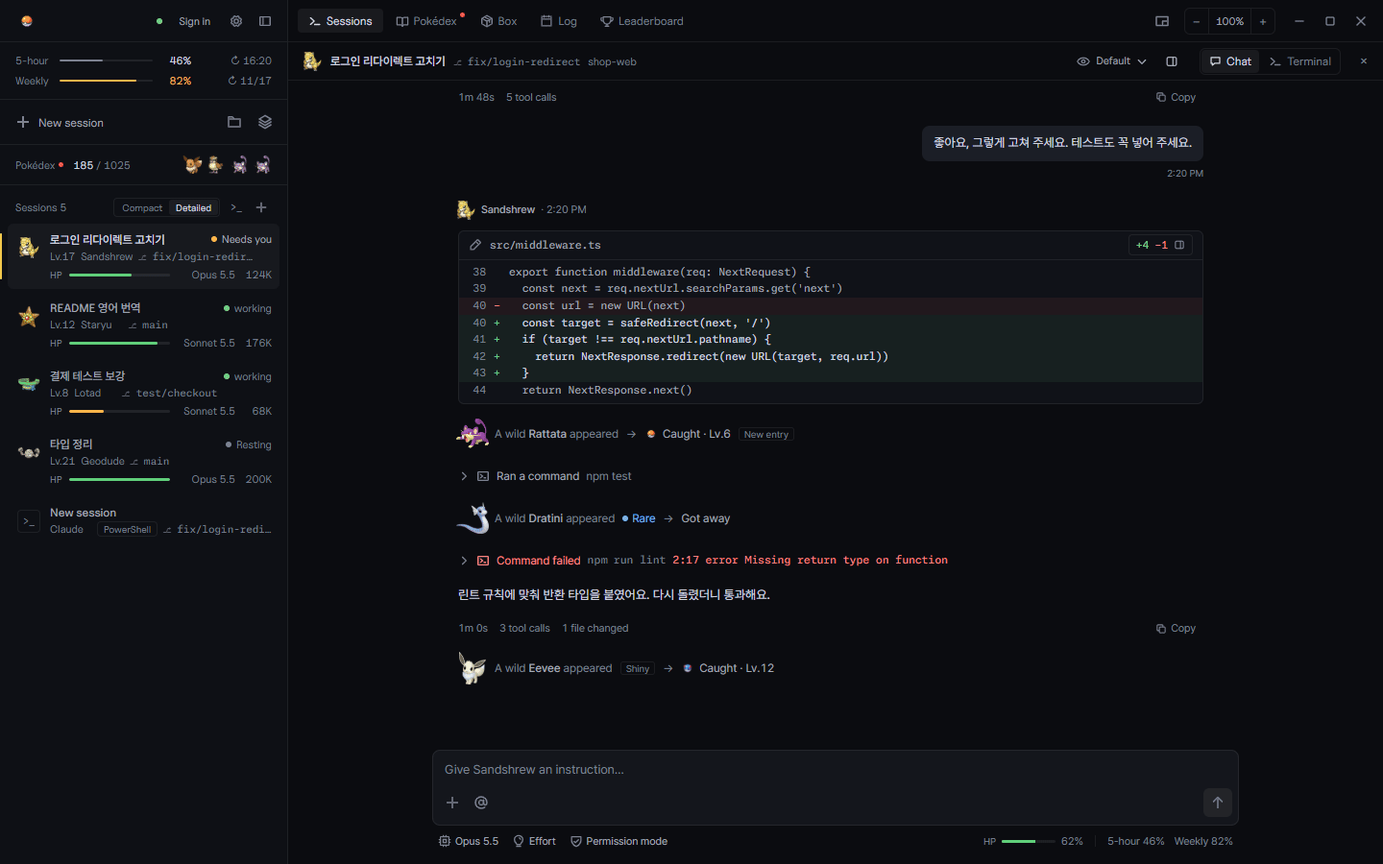
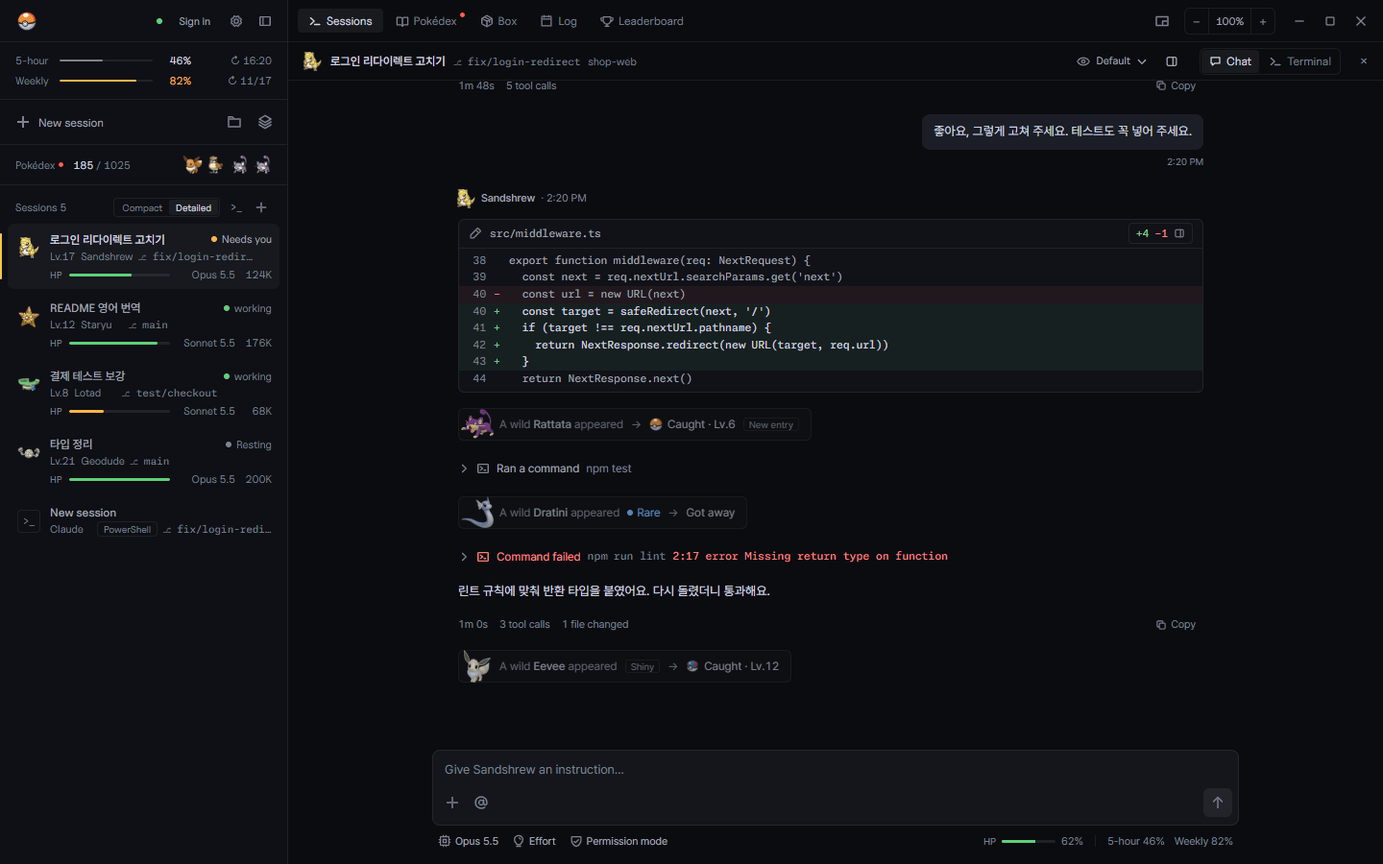
release: 1.10.5 — the chat view by default, wild Pokémon in a quiet box, README screens
Claude-Session: https://claude.ai/code/session_01LECh1DkdyN26mUmzJWoNm9

diff --git a/docs/HANDOFF.md b/docs/HANDOFF.md
@@ -2,7 +2,7 @@
 
 Claude Code 세션을 포켓몬과 함께 쓰는 Windows Electron 앱이다. W17ant/Claude-Office(MIT)를 포크했다.
 
-> **새 세션은 여기부터**: **1.10.4(2026-11-19 릴리스, 윈도우 + 맥)** — ① `server/pokedex.js` repairDex(로드 + importState 뒤): 지금 트레이너 시작(trainer.since) 전에 고른 스타팅이고 그 계통 개체가 없으면 caught·seen 삭제(사용자 꼬부기 ×3, 11/9 첫 시작), 볼 없는 caught 기록은 그 종 첫 개체의 볼(없으면 poke-ball). 클라우드 병합이 합집합이라 로컬만 지우면 되살아나서 코드로 함. 실제 저장 사본으로 미리 확인: 꼬부기만 빠지고 개체 313 그대로. ② 패치노트 기록: `.w-notes-body`에 min-height 0이 없어 옛 버전이 잘렸음(CHANGELOG에는 69개 다 있음) → 스크롤 + 마이너 버전별 `<details>`(`byMinor`). 다음: README 이미지(에이전트 작업, 올리기 전 사용자 확인). 이전: **1.10.3(2026-11-19 릴리스, 윈도우 + 맥)** — ① /exit: `electron/terminals.cjs` onExit에서 exitCode 0 + 마지막 출력에 Claude Code 인사(`GOODBYE`: Goodbye!/See ya!/Bye!/Catch you later!)면 1.2초 뒤 `close(id)`(왼쪽 패널 ×와 같음); 오류·강제 종료·윈도우 종료(인사 없음 또는 코드≠0)는 탭 유지(다음 시작 때 복원). ② 이어하기 같은 이름: 앱 이름은 탭의 지금 대화를 따라감, /clear 전 대화는 '이전 대화 n개'로 접힘(`.prev` 메모는 이 빌드 이후 /clear부터), 같은 이름은 날짜(같은 날이면 시각), 열린 탭끼리는 `src/sameNames.ts`로 'Spawn (2)'. ③ 닫자마자 실행 중: `history.cjs` 등록 기록 시작 시각을 실제 프로세스와 비교(PowerShell 1회 캐시), 앱이 방금 닫은 탭은 '닫는 중', 지우기는 최대 30초 기다렸다가 휴지통, 목록이 2.5초마다 다시 확인. 참고: 사용자 요청으로 지울 때 `23071273`(어제 1.8.0 작업, /clear 전)을 휴지통에 넣었는데, 실제로 겹쳐 보인 건 `d33020d6`(11/17 '앱 이름 Spawn')이었음 — 7일 안 되돌리기 가능, 사용자에게 알림. ④ 기록 줄 최소 60px(레벨업 줄 포함). 이전: **1.10.2(2026-11-19 릴리스, 윈도우 + 맥)** — ① 입력란 남은 글: prompt-busy면 Composer가 묻지 않고 `takeRow('', true)`로 비우고 한 번 다시 보냄(`send(retried)`), 못 비울 때만 안내(`tests/chat-busy-row.test.ts`). ② 칸 너비: `splitPanes.ts` fracsFor/moveEdge/fitFracs, Widget `PaneEdge`(끌기, 두 번 눌러 균등, 칸 수별로 `spawn-pane-fracs`에 저장), 칸 최저 360px(`MIN_PANE_W`): 새 칸이 안 들어가면 `openInTab`이 거절하고 끌기 안내도 미리 말함(`roomRef`), 연 뒤 창이 좁아지면 들어가는 만큼 + 위 줄 `.w-pane-more`(+N, 누르면 숨은 세션을 마지막 칸에), 2칸도 안 되면 예전 탭 줄, 끌어 둔 비율이 360 미만이 되면 균등으로(fitFracs). 하네스 `--flow session-tabs`가 끌기·좁은 창·거절까지 확인. ③ 선택 칸 흰 줄 제거(배경만). ④ 채팅 스크롤바 4px·오른쪽 4px 띄움. 이전: **1.10.1(2026-11-19 릴리스, 윈도우 + 맥)** — ① 보낸 메시지를 UserPromptSubmit 훅으로 바로 표시(`electron/chatLens.cjs` showPrompt, 기록 줄이 오면 교체, Esc·턴 끝이면 clearLive; 채팅 말풍선은 `ChatView.tsx` hookPromptsShown으로 하나만, 훅이 확인하면 '확인 안 됨'으로 안 바뀜). 측정(실제 2.1.328 + claude-mem): HTTP 훅 0.12~0.22초, 화면 'esc to interrupt' 0.08~0.23초, 명령 훅 0.2~0.4초(+Electron node 시작 0.25~0.5초), 프롬프트 기록 줄은 모든 UserPromptSubmit 훅이 끝나야 써짐(claude-mem 약 12초), 답은 Stop 직후 한 번에. ② canary 배너: 사용자 줄 없는 턴(백그라운드 에이전트 깨어남, `chatItems.cjs` agent-done)에서 Stop 전에 읽힌 답을 안 세던 것 → `canaryHolds`가 canary.start부터 센다. 기록 읽기 자체는 문제 없음(`tests/chat-burst.test.ts`). 남은 것: 왼쪽 목록 '일하는 중'은 명령 훅이라 0.5~0.9초(서버/Widget 수정 필요, 사용자 원하면). ③ 업데이트 버튼 22px·아이콘 12(`--flow update-button`). 확률은 사용자 결정으로 그대로(3배 안·천장 수정 검토했으나 '현상유지'; 시뮬레이션상 확률만 올리면 천장이 덜 터져 완성이 오히려 늦어짐, 천장을 잡을 때 초기화하면 하루 30번 기준 294일→211일). 사이트: 다운로드 버튼 하나 + 운영체제 목록(추천 표시 없음, 접속 OS 먼저). 이전: **1.10.0(2026-11-19 릴리스, 윈도우 + 맥)** — ① 화면 나누기(`src/splitPanes.ts` panesFor/paneStyle, Widget `paneSids`/`split`): 열린 탭(최대 3)을 가로로 나란히, 칸 최소 360px(안 들어가면 들어가는 만큼, 2칸도 안 되면 예전 탭 줄), 칸마다 SessionHeader(`paneClose`: ×는 칸만 닫음)·ChatView·Composer(칸별 ref `paneRef`), 터미널 모드는 TerminalView `slot`(칸 박스, ResizeObserver가 다시 맞춤), 칸 클릭 = 그 세션이 보이는 세션(`focusPane`), 나눠 볼 땐 보기 정도·채팅/터미널이 위 줄(`.w-split-tools`)에 한 번, 변경 사항 패널은 나누지 않을 때만(`chPanel`). 하네스 `--flow session-tabs`가 나눠 보기 흐름. ② `/` 명령 메뉴(`src/chat/slash.ts` 기본 명령 ~50개 2.1.328 기준, `electron/chatCommands.cjs`가 cwd·~/.claude commands·skills·플러그인 front matter를 30초 캐시, `SlashMenu.tsx`), 번호 없는 패널(/rc)도 카드(`parseDialog` 행 목록 모양, 링크 복사, 명령 뒤 8초 안 패널엔 취소), 연속 선택(답한 카드가 남아 있어도 화면을 다시 읽음, 같은 보기 두 창이 한 카드를 공유하던 것), 터미널이 그린 상자 표 → 표(`src/chat/boxTable.ts`). /rc 화면과 상자 표 출력은 바이너리 코드로 재구성한 픽스처라 실제 화면으로 미확인. ③ 생각 정도: `effortWhy`(일하는 중에도 가능, /effort는 immediate). ④ 윈도우 설치 파일 `spawn-Setup-<v>.exe`(`build/installer.nsh`, package.json `build.nsis`, release.mjs가 win-unpacked로 `--prepackaged` 빌드해 4번째 파일로 올림): 한 번 클릭, `%LOCALAPPDATA%\spawn`, taskkill 후 설치, 바탕화면·시작 메뉴 바로가기, 끝나면 실행. 앱 업데이트는 resources\app만 바꾸므로 설치본도 그대로 됨(설치된 앱 목록의 버전 표시는 처음 설치 버전에 머묾). 사용자: 가장 트렌디한 방식으로 → 마법사 없이 한 번 클릭 유지. ⑤ 사이트: 데모를 실제 채팅 화면으로(앱 chat.css 복사본 `assets/css/chat.css`), 다른 운영체제 버튼, 윈도우 버튼은 설치 파일 우선. 다음 할 일: 채팅에서 일하는 서브에이전트를 옆에 표시하고 누르면 그 대화 보기(사용자 요청, 계획 먼저). 이전: **1.9.0(2026-11-19 릴리스, 윈도우 + 맥)** — ① 생각 정도 메뉴: 컨트롤 줄 모델 옆, `/effort <level>`(Claude Code 2.1.327: auto/low/medium/high/xhigh/max). 지금 단계는 상태줄 stdin의 `effort.level`(효과 단계가 없는 모델은 필드 없음) → `hooks/status-line.cjs` `effort` → `server/status.js`(이전 값 안 이어 받음) → `meters.effort` → `ComposerControl.effort`. 상태줄은 다음 상태 변화 때만 오므로 Composer가 고른 값(`effortChosen`)을 그때까지 보여 줌. ② 업데이트 버튼: `ready`면 ArrowClockwise + "재시작" 알약(`.w-update.ready`), 받을 업데이트는 그대로 아래 화살표. ③ 왼쪽 목록 HP 줄: 모델 6.4em→5.5em, 토큰 4.4em→3em, 둘 사이 -3px(고정 칸은 유지). ④ 채팅 도구 줄 26→30px, 패딩 2→4px, 줄 간격 2px. ⑤ 소개 사이트(`Documents\spawn-site`): 데모 아이콘을 앱과 같은 Phosphor bold로, 세션 탭 3개, 글자 크기 100%, SV 아이콘은 원래 크기 이하로만(걷는 포켓몬 34, 오늘 기록 24, 도감 카드 26 — 사용자: 크게 쓰면 깨져 보임), 다운로드 버튼은 최신 릴리스의 zip을 바로 받음(GitHub API가 파일 목록을 줄 때만, 아니면 저장소 메인), 윈도우 방문자에게도 Mac(Apple 실리콘 · Intel) 링크. 이전: **1.8.0(2026-11-18 릴리스, 윈도우 + 맥)** — 아래 줄의 1.7.0 이후 작업 전부. 전체 정리는 `docs/STATUS-2026-11-18.md`. 이전 메모:: 사용자 지시 "물어보지 말고 싹다 진행". ① 터미널 입력란에 남은 글: 안내에 "가져와서 이어 쓰기 / 지우고 보내기"(`src/chat/clearRow.ts`, Ctrl+E + Backspace n개를 `chat:dialog-key`로, 화면에서 비었는지 확인). ② "전체 보기": 잘린 답·메시지·생각·도구 출력·셸 출력을 기록 줄에서 다시 읽음(`electron/chatFull.cjs`, `chat:full`, 200만 자까지; Read 내용은 안 보냄). 남은 보기 전용 "터미널에서": diff 600줄 넘는 부분, 변경 사항 패널의 명령으로 바꾼 파일, 4000개 넘는 옛 대화. ③ E 세션 삭제: 이어하기 목록 휴지통 버튼 → `~/.spawn/trash/<날짜>/` 7일(`electron/sessionTrash.cjs`, 시작할 때 정리, 되돌리기; 열려 있거나 실행 중이면 거절). ④ C 아이콘: Phosphor(`@phosphor-icons/react` 2.1.10, MIT, NOTICE) bold 하나, 크기 12/14/16(`iconStep`이 맞춤), 아이콘마다 `dist/csr/<이름>`으로 따로 import(전체를 불러오면 시험이 15초 넘음); 창 버튼 3개만 직접 그림. 새 의존성 해시 검사(`tests/chat-ui.test.ts`)를 갱신함. ⑤ D `?system` 페이지(`src/SystemPage.tsx`): 토큰·글자 단계·모서리·아이콘, 버튼·스위치, 채팅 컴포넌트 실물(선택 창 카드는 가짜 터미널에 답함). ⑥ A 세션 탭 최대 3개(`src/sessionTabs.ts`, 머리줄 안 `tabs`, 왼쪽 목록에서 끌어 놓기[자동 정렬 켰을 때] 또는 Ctrl+클릭, 4번째 거절 안내, 탭 ×는 탭만), 채팅/터미널은 앱 전체 하나(`chatModeAll`, 옛 세션별 값은 첫 읽기에만). 선택 창 제목은 ?로 끝나는 줄. 화면 흐름 검사 `--flow session-tabs` 통과. 포트폴리오: 기록 3편(2026-11-17-*), 화면 보관 디자인시스템 3장·세션-탭3개. **APK는 제안만**(사용자 요청). **다음**: 사용자가 테스트 빌드로 확인 → "푸시해"면 1.7.1(또는 1.8.0).
+> **새 세션은 여기부터**: **1.10.5(2026-11-19 릴리스, 윈도우 + 맥)** — ① 채팅 보기 기본: `electron/settings.cjs` DEFAULTS chatView true, `chatViewOn`(예전 파일의 off를 한 번만 켜고 그다음은 사용자 선택), 라벨에서 '(미리보기)' 뺌. ② 채팅의 야생 포켓몬 줄: 옅은 테두리 박스 + 투명도 0.72(`chat-game.css` .chat-wild). ③ README ko/en/ja에 화면 이미지(`docs/images/`, 하네스 가짜 데이터, ffmpeg 팔레트 PNG; 박스·터미널은 테스트 환경에서 그림이 비거나 글자가 벌어져 뺌). 진행 중: 릴리스 속도(맥 CI를 먼저 시작), push CI 고치기(테스트가 Electron 바이너리를 요구), 맥 화면 자동 캡처 — 에이전트 브랜치, 합치기 전 확인. 이전: **1.10.4(2026-11-19 릴리스, 윈도우 + 맥)** — ① `server/pokedex.js` repairDex(로드 + importState 뒤): 지금 트레이너 시작(trainer.since) 전에 고른 스타팅이고 그 계통 개체가 없으면 caught·seen 삭제(사용자 꼬부기 ×3, 11/9 첫 시작), 볼 없는 caught 기록은 그 종 첫 개체의 볼(없으면 poke-ball). 클라우드 병합이 합집합이라 로컬만 지우면 되살아나서 코드로 함. 실제 저장 사본으로 미리 확인: 꼬부기만 빠지고 개체 313 그대로. ② 패치노트 기록: `.w-notes-body`에 min-height 0이 없어 옛 버전이 잘렸음(CHANGELOG에는 69개 다 있음) → 스크롤 + 마이너 버전별 `<details>`(`byMinor`). 다음: README 이미지(에이전트 작업, 올리기 전 사용자 확인). 이전: **1.10.3(2026-11-19 릴리스, 윈도우 + 맥)** — ① /exit: `electron/terminals.cjs` onExit에서 exitCode 0 + 마지막 출력에 Claude Code 인사(`GOODBYE`: Goodbye!/See ya!/Bye!/Catch you later!)면 1.2초 뒤 `close(id)`(왼쪽 패널 ×와 같음); 오류·강제 종료·윈도우 종료(인사 없음 또는 코드≠0)는 탭 유지(다음 시작 때 복원). ② 이어하기 같은 이름: 앱 이름은 탭의 지금 대화를 따라감, /clear 전 대화는 '이전 대화 n개'로 접힘(`.prev` 메모는 이 빌드 이후 /clear부터), 같은 이름은 날짜(같은 날이면 시각), 열린 탭끼리는 `src/sameNames.ts`로 'Spawn (2)'. ③ 닫자마자 실행 중: `history.cjs` 등록 기록 시작 시각을 실제 프로세스와 비교(PowerShell 1회 캐시), 앱이 방금 닫은 탭은 '닫는 중', 지우기는 최대 30초 기다렸다가 휴지통, 목록이 2.5초마다 다시 확인. 참고: 사용자 요청으로 지울 때 `23071273`(어제 1.8.0 작업, /clear 전)을 휴지통에 넣었는데, 실제로 겹쳐 보인 건 `d33020d6`(11/17 '앱 이름 Spawn')이었음 — 7일 안 되돌리기 가능, 사용자에게 알림. ④ 기록 줄 최소 60px(레벨업 줄 포함). 이전: **1.10.2(2026-11-19 릴리스, 윈도우 + 맥)** — ① 입력란 남은 글: prompt-busy면 Composer가 묻지 않고 `takeRow('', true)`로 비우고 한 번 다시 보냄(`send(retried)`), 못 비울 때만 안내(`tests/chat-busy-row.test.ts`). ② 칸 너비: `splitPanes.ts` fracsFor/moveEdge/fitFracs, Widget `PaneEdge`(끌기, 두 번 눌러 균등, 칸 수별로 `spawn-pane-fracs`에 저장), 칸 최저 360px(`MIN_PANE_W`): 새 칸이 안 들어가면 `openInTab`이 거절하고 끌기 안내도 미리 말함(`roomRef`), 연 뒤 창이 좁아지면 들어가는 만큼 + 위 줄 `.w-pane-more`(+N, 누르면 숨은 세션을 마지막 칸에), 2칸도 안 되면 예전 탭 줄, 끌어 둔 비율이 360 미만이 되면 균등으로(fitFracs). 하네스 `--flow session-tabs`가 끌기·좁은 창·거절까지 확인. ③ 선택 칸 흰 줄 제거(배경만). ④ 채팅 스크롤바 4px·오른쪽 4px 띄움. 이전: **1.10.1(2026-11-19 릴리스, 윈도우 + 맥)** — ① 보낸 메시지를 UserPromptSubmit 훅으로 바로 표시(`electron/chatLens.cjs` showPrompt, 기록 줄이 오면 교체, Esc·턴 끝이면 clearLive; 채팅 말풍선은 `ChatView.tsx` hookPromptsShown으로 하나만, 훅이 확인하면 '확인 안 됨'으로 안 바뀜). 측정(실제 2.1.328 + claude-mem): HTTP 훅 0.12~0.22초, 화면 'esc to interrupt' 0.08~0.23초, 명령 훅 0.2~0.4초(+Electron node 시작 0.25~0.5초), 프롬프트 기록 줄은 모든 UserPromptSubmit 훅이 끝나야 써짐(claude-mem 약 12초), 답은 Stop 직후 한 번에. ② canary 배너: 사용자 줄 없는 턴(백그라운드 에이전트 깨어남, `chatItems.cjs` agent-done)에서 Stop 전에 읽힌 답을 안 세던 것 → `canaryHolds`가 canary.start부터 센다. 기록 읽기 자체는 문제 없음(`tests/chat-burst.test.ts`). 남은 것: 왼쪽 목록 '일하는 중'은 명령 훅이라 0.5~0.9초(서버/Widget 수정 필요, 사용자 원하면). ③ 업데이트 버튼 22px·아이콘 12(`--flow update-button`). 확률은 사용자 결정으로 그대로(3배 안·천장 수정 검토했으나 '현상유지'; 시뮬레이션상 확률만 올리면 천장이 덜 터져 완성이 오히려 늦어짐, 천장을 잡을 때 초기화하면 하루 30번 기준 294일→211일). 사이트: 다운로드 버튼 하나 + 운영체제 목록(추천 표시 없음, 접속 OS 먼저). 이전: **1.10.0(2026-11-19 릴리스, 윈도우 + 맥)** — ① 화면 나누기(`src/splitPanes.ts` panesFor/paneStyle, Widget `paneSids`/`split`): 열린 탭(최대 3)을 가로로 나란히, 칸 최소 360px(안 들어가면 들어가는 만큼, 2칸도 안 되면 예전 탭 줄), 칸마다 SessionHeader(`paneClose`: ×는 칸만 닫음)·ChatView·Composer(칸별 ref `paneRef`), 터미널 모드는 TerminalView `slot`(칸 박스, ResizeObserver가 다시 맞춤), 칸 클릭 = 그 세션이 보이는 세션(`focusPane`), 나눠 볼 땐 보기 정도·채팅/터미널이 위 줄(`.w-split-tools`)에 한 번, 변경 사항 패널은 나누지 않을 때만(`chPanel`). 하네스 `--flow session-tabs`가 나눠 보기 흐름. ② `/` 명령 메뉴(`src/chat/slash.ts` 기본 명령 ~50개 2.1.328 기준, `electron/chatCommands.cjs`가 cwd·~/.claude commands·skills·플러그인 front matter를 30초 캐시, `SlashMenu.tsx`), 번호 없는 패널(/rc)도 카드(`parseDialog` 행 목록 모양, 링크 복사, 명령 뒤 8초 안 패널엔 취소), 연속 선택(답한 카드가 남아 있어도 화면을 다시 읽음, 같은 보기 두 창이 한 카드를 공유하던 것), 터미널이 그린 상자 표 → 표(`src/chat/boxTable.ts`). /rc 화면과 상자 표 출력은 바이너리 코드로 재구성한 픽스처라 실제 화면으로 미확인. ③ 생각 정도: `effortWhy`(일하는 중에도 가능, /effort는 immediate). ④ 윈도우 설치 파일 `spawn-Setup-<v>.exe`(`build/installer.nsh`, package.json `build.nsis`, release.mjs가 win-unpacked로 `--prepackaged` 빌드해 4번째 파일로 올림): 한 번 클릭, `%LOCALAPPDATA%\spawn`, taskkill 후 설치, 바탕화면·시작 메뉴 바로가기, 끝나면 실행. 앱 업데이트는 resources\app만 바꾸므로 설치본도 그대로 됨(설치된 앱 목록의 버전 표시는 처음 설치 버전에 머묾). 사용자: 가장 트렌디한 방식으로 → 마법사 없이 한 번 클릭 유지. ⑤ 사이트: 데모를 실제 채팅 화면으로(앱 chat.css 복사본 `assets/css/chat.css`), 다른 운영체제 버튼, 윈도우 버튼은 설치 파일 우선. 다음 할 일: 채팅에서 일하는 서브에이전트를 옆에 표시하고 누르면 그 대화 보기(사용자 요청, 계획 먼저). 이전: **1.9.0(2026-11-19 릴리스, 윈도우 + 맥)** — ① 생각 정도 메뉴: 컨트롤 줄 모델 옆, `/effort <level>`(Claude Code 2.1.327: auto/low/medium/high/xhigh/max). 지금 단계는 상태줄 stdin의 `effort.level`(효과 단계가 없는 모델은 필드 없음) → `hooks/status-line.cjs` `effort` → `server/status.js`(이전 값 안 이어 받음) → `meters.effort` → `ComposerControl.effort`. 상태줄은 다음 상태 변화 때만 오므로 Composer가 고른 값(`effortChosen`)을 그때까지 보여 줌. ② 업데이트 버튼: `ready`면 ArrowClockwise + "재시작" 알약(`.w-update.ready`), 받을 업데이트는 그대로 아래 화살표. ③ 왼쪽 목록 HP 줄: 모델 6.4em→5.5em, 토큰 4.4em→3em, 둘 사이 -3px(고정 칸은 유지). ④ 채팅 도구 줄 26→30px, 패딩 2→4px, 줄 간격 2px. ⑤ 소개 사이트(`Documents\spawn-site`): 데모 아이콘을 앱과 같은 Phosphor bold로, 세션 탭 3개, 글자 크기 100%, SV 아이콘은 원래 크기 이하로만(걷는 포켓몬 34, 오늘 기록 24, 도감 카드 26 — 사용자: 크게 쓰면 깨져 보임), 다운로드 버튼은 최신 릴리스의 zip을 바로 받음(GitHub API가 파일 목록을 줄 때만, 아니면 저장소 메인), 윈도우 방문자에게도 Mac(Apple 실리콘 · Intel) 링크. 이전: **1.8.0(2026-11-18 릴리스, 윈도우 + 맥)** — 아래 줄의 1.7.0 이후 작업 전부. 전체 정리는 `docs/STATUS-2026-11-18.md`. 이전 메모:: 사용자 지시 "물어보지 말고 싹다 진행". ① 터미널 입력란에 남은 글: 안내에 "가져와서 이어 쓰기 / 지우고 보내기"(`src/chat/clearRow.ts`, Ctrl+E + Backspace n개를 `chat:dialog-key`로, 화면에서 비었는지 확인). ② "전체 보기": 잘린 답·메시지·생각·도구 출력·셸 출력을 기록 줄에서 다시 읽음(`electron/chatFull.cjs`, `chat:full`, 200만 자까지; Read 내용은 안 보냄). 남은 보기 전용 "터미널에서": diff 600줄 넘는 부분, 변경 사항 패널의 명령으로 바꾼 파일, 4000개 넘는 옛 대화. ③ E 세션 삭제: 이어하기 목록 휴지통 버튼 → `~/.spawn/trash/<날짜>/` 7일(`electron/sessionTrash.cjs`, 시작할 때 정리, 되돌리기; 열려 있거나 실행 중이면 거절). ④ C 아이콘: Phosphor(`@phosphor-icons/react` 2.1.10, MIT, NOTICE) bold 하나, 크기 12/14/16(`iconStep`이 맞춤), 아이콘마다 `dist/csr/<이름>`으로 따로 import(전체를 불러오면 시험이 15초 넘음); 창 버튼 3개만 직접 그림. 새 의존성 해시 검사(`tests/chat-ui.test.ts`)를 갱신함. ⑤ D `?system` 페이지(`src/SystemPage.tsx`): 토큰·글자 단계·모서리·아이콘, 버튼·스위치, 채팅 컴포넌트 실물(선택 창 카드는 가짜 터미널에 답함). ⑥ A 세션 탭 최대 3개(`src/sessionTabs.ts`, 머리줄 안 `tabs`, 왼쪽 목록에서 끌어 놓기[자동 정렬 켰을 때] 또는 Ctrl+클릭, 4번째 거절 안내, 탭 ×는 탭만), 채팅/터미널은 앱 전체 하나(`chatModeAll`, 옛 세션별 값은 첫 읽기에만). 선택 창 제목은 ?로 끝나는 줄. 화면 흐름 검사 `--flow session-tabs` 통과. 포트폴리오: 기록 3편(2026-11-17-*), 화면 보관 디자인시스템 3장·세션-탭3개. **APK는 제안만**(사용자 요청). **다음**: 사용자가 테스트 빌드로 확인 → "푸시해"면 1.7.1(또는 1.8.0).
 > **1.7.0(2026-11-17 릴리스, 윈도우 + 맥 — main에 바로)**: 사용자 요청 "채팅에서 터미널로 돌아갈 일이 없게". ① **선택 창 카드**(`src/chat/dialog.ts` + `DialogCard.tsx`): hold가 못 잡은 터미널 대화상자(`/model` 확인, 폴더 신뢰, plan 선택지, 잘린 질문/권한)를 화면(termText)에서 읽어 카드로, ↑/↓를 한 칸씩 보내며 표시(❯/>)가 옮겨진 걸 확인한 뒤 Enter. main은 `chat:dialog-key`(키 4개 + 한 줄 붙여넣기만). ② 질문 여러 개·다중 선택(`questionsBody`, 다중 선택 답은 `, `로 이어 붙임 — **기록에서 본 적 없는 추정**), plan 승인(ExitPlanMode PermissionRequest를 규칙 없는 permission hold로; 2만 자 넘는 plan·서브에이전트 것은 터미널). ③ 모델(`/model <alias>`, 별칭은 claude.exe에서 확인한 default·fable·opus·sonnet·haiku; 대화 중이면 확인 창이 떠서 ①이 받음)·모드(Shift+Tab을 `chat:cycle-mode`로 한 번씩, 아래줄 `footerMode`로 확인, 한 바퀴 돌면 그 세션엔 없는 모드) 메뉴. 모드는 1초마다 footer에서 읽어 항상 보임. ④ `!` 셸 모드(`encodeSend({shell})`, 기록의 `<bash-input>/<bash-stdout>` 두 줄 → `shell` 항목), 추천 다음 말 placeholder(dim만 있는 행, Tab/→), @ 파일 뱃지(입력란엔 글자 없음, 보낼 때 `@path`를 앞에), 대기 목록, 불렛 이어 쓰기, 일하는 포켓몬 hop/halo(chat-game.css), md 문서 카드. ⑤ 버그: `missing` 배너 — claude-mem의 UserPromptSubmit 훅이 12초 걸려 기록이 늦게 써짐 → 15초 + 기록이 늘면 바로 지움; `canary` 실패해도 다음 프롬프트까지 늦게 오는 답을 기다림; 업데이트 넘어 이어 쓴 세션의 `version` 배너는 확인된 버전 줄이 오면 지움; 진행 설명(`thinkingDisplay: "updates"`의 글 있는 thinking)을 `update`로 기본 밀도에도 보임. ⑥ UI: 업데이트 버튼 오른쪽 탭 바·노랑, 글자 크기 80~130%(`ts-80`…`ts-130`, 옛 이름은 90/100/110/120으로), 왼쪽 목록 자동 정렬(`src/sessionOrder.ts`, `session.autoSort` 기본 켬, 목록 위에 마우스가 있으면 순서를 멈추되 확인 필요는 즉시 위로), 설정 스위치 노랑, HP 바 길이 고정 칸, 조력자 첫 줄. **사용자 확인 대기**: 다중 선택 답, plan 승인, `/model` 확인 카드, 모드 순환이 실제 세션에서 되는지. **다음(사용자 지시, 물어보지 말고 진행)**: 입력란에 남은 글(지우고/이어 보내기), 보기 전용 "터미널에서 보세요" 없애기, A 탭 3개 + 채팅/터미널 전체 전환, C 아이콘 Phosphor 통일, D 컴포넌트 시스템 페이지, E 세션 완전 삭제(휴지통 7일). 소제목은 하지 않음(색으로 충분). APK는 제안만. 성능 시험 하나(chat-perf findMatches 40ms)는 다른 세션이 돌 때 가끔 넘음.
 > **1.6.2(2026-11-16 릴리스, 윈도우 + 맥 — 브랜치 `fix-1.6.2`를 main에 fast-forward, 계획 `docs/superpowers/plans/2026-11-16-fixes-1.6.2.md`)**: 사용자가 1.6.1에서 겪은 것들. ① **채팅 보내기가 늘 `prompt-busy`로 거절** — 페이지가 입력란을 평문으로만 읽어 Claude Code의 흐린 placeholder·추천 문장을 쓴 글과 구분 못 했고, 원장(ledger)이 완전히 깨끗할 때만 보냈다. 터미널에서 한글 마지막 음절(Enter 뒤에 따로 옴)·`/model`·Esc 하나면 다음 프롬프트까지 계속 거절. 이제 터미널 읽기가 글자마다 흐림 표시(`d`/`.`, `src/chat/promptRow.ts` dimMask, `TermMetrics.dim`, `termDim`)를 같이 주고, 전부 흐리면 `suggestion`(원장 무시하고 보냄), 보통 글자가 하나라도 있으면 `typed`(prompt-busy, 안내에 그 글을 따옴표로). 표시가 없으면 예전 원장 규칙. 실제 2.1.325에서 placeholder가 `ESC[2m`, 친 글이 `ESC[m`인 것 확인(턴 뒤 추천 문장은 시험에서 안 떠서 미확인). 거절되면 spawn.log에 가린 화면 + `-- dim --` 표시. ② **대기 중이던 `/rename`이 쓰던 문장 한가운데 끼어들어 반쪽을 전송**("…갔/rename Spawn (New)다") — 이제 Claude 세션만, 페이지가 입력란을 비었거나 추천 문장뿐이라고 읽을 때만, main은 IPC로 온 것을 키 입력 1.5초 안이면 `typing`으로 거절, 거절되면 대기 유지. 셸 탭 이름 바꾸면 PowerShell에 `/rename`을 치던 것도 막음. ③ **한 마디도 안 보낸 세션이 재시작 뒤 사라짐**(기록 파일이 없어 다시 열 목록에서 빠지고, 다음 저장 때 영영 지워짐) — 모든 탭을 되살리고, `create()`가 기록이 없으면 같은 id로 `--session-id` 새로 시작(/clear 링크 경우 포함, 기록 있는 id엔 절대 `--session-id` 안 씀). ④ **trust 질문이 탭 전환 뒤 키를 안 받음** — 원인 미확정. 실제 Claude Code는 포커스 신호·화살표를 정상 처리, 첫 선택이 "No, exit"라 Enter면 꺼짐. spawn.log에 세션 첫 10분의 화살표/Enter/Esc/포커스 개수(내용 없음)와 출력 크기, 종료 줄을 남기게 함 → 사용자가 한 번 재현하면 그 로그부터 볼 것. ⑤ **헤더 글자가 위로 뜸**(1.6.1의 `align-items: baseline`이 줄을 위에서 시작) — 헤더를 바 높이로 늘리고 글자 줄 높이를 바 높이로(마크업 그대로, 측정: 이름 잉크 중심 56.9→62.9, 그림 63.4). ⑥ **도감과 세션 목록 사이 구분선**(사용자 요청, 예전엔 일부러 없앴던 선). **남은 것**: ④ trust 질문의 원인(사용자 재현 → spawn.log의 `[terminals] claude <id> +N s: arrows …` / `exited …` 줄), 턴 뒤 추천 문장이 정말 흐리게 그려지는지(사용자 앱에서 채팅이 다시 막히면 spawn.log의 `-- dim --` 표시로 확인). **1.6.1(2026-11-16, 사용자 요청)**: 헤더의 spawn 글자 제거(공 하나만, 패치노트 열기는 그대로), 업데이트 버튼을 26×26 아이콘으로(문구는 title·aria-label의 `updateWord`, 프로필 `.w-account`·`.w-signin`은 flex: none), 세션 머리 줄 글자 기준선 맞춤(`.w-sess-head` align-items: baseline, 그림·입력·도구·×는 가운데). 소개 사이트 앱 그림도 같이(헤더 글자 제거·기준선) — 파티 제거본과 함께 이번에 배포. **1.6.0(2026-11-16): 파티 없앰** — 설계 `docs/superpowers/specs/2026-11-16-remove-party-design.md`, 계획 `docs/superpowers/plans/2026-11-16-remove-party.md`(진행 기록 `.superpowers/sdd/2026-11-16-remove-party/`), 브랜치 `remove-party`. 잡은 포켓몬은 모두 박스 하나에 있고, 세션 수 제한(12)도 없앴다. **정한 것 넷**: ① 불러올 때와 동기화(`importState`) 때 파티를 박스 맨 앞으로 접는다(두 번 접어도 같음). 저장 파일에는 `party: []`를 그대로 둬서 1.5.4가 1.6.0 저장을 읽어도 포켓몬이 다 있다. ② 고르는 순서는 `mon.outAt` + `byRecentWork` 하나(서버 `server/pokedex.js`, 페이지 `src/resting.ts`) — 최근에 일한 포켓몬이 먼저. ③ 쉬는 포켓몬이 없으면 세션은 포켓몬 없이 열려 실행마다 있는 `waiting`에 들어가고 아무것도 만나지 않는다(출석·조우·포획 없음). 한 마리가 쉬게 되면 가장 오래 기다린 세션부터 자동으로 붙는다(`assignWaiting`이 모든 이벤트·`agent_completed`·포획·교체·`importState`·tick에서 `ensureAssigned`/`helperFor`보다 먼저 돎). 끝난 세션의 대기 단계는 단계마다 적힌 포켓몬으로 마저 처리한다. ④ 클라우드 병합은 모든 포켓몬을 박스에 두고, 상한은 `BOX_LIMIT`(1200) — 계획은 `BOX_LIMIT + LEGACY_PARTY_SIZE`였지만 사용자 결정(2026-11-16 "박스 1200칸으로 해")으로 1200. 넘치면 가장 새로 잡은 것부터 박사에게 가되, 어느 쪽의 (1.5.4) 파티에 있던 포켓몬은 고르지 않는다. 이 PC가 이미 가진 포켓몬은 박사님께 보내지 않음 (새로 들어오는 것만 1200 초과 시) — 그래서 1.5.4의 박스 1200 + 파티 6은 접혀서 1206으로 남고 동기화해도 줄지 않는다(`tests/cloud-merge.test.ts`). 페이지: 고르기 창(새 세션·이어하기·교체)은 쉬는 포켓몬 전부(최근 순, 이름·번호 검색, 120칸씩 + 더 보기), 왼쪽 패널에 파티 줄·한도 없음, 포켓몬 없는 줄은 업무 모드와 같은 글리프 + 업무 모드 밖에서만 안내, 복원은 돌아오는 세션마다 기억한 포켓몬을 먼저 잡아 둠(`restorePicks`), 포켓몬 없는 세션의 이름에 옛 포켓몬 이름이 나오지 않음, 박스는 격자 하나, 랭킹 파트너는 최근 일한 포켓몬(`recentPartnerDex`). 파티가 돌아오지 않게 지키는 테스트 `tests/no-party.test.ts`. README ko/en/ja도 고침. CI 전용 시간 여유는 `tests/timing.ts`. 교환 라우트(`/pokedex/exchange`)와 IPC(`game:exchange`, preload `exchange`)는 남겨 두었고 아무것도 부르지 않는다. 소개 사이트는 저장소 밖에서 고쳐 두었고(백업 `Documents\spawn-site-backup-1.5.4`) 아직 올리지 않았다. **다음**: 사용자가 릴리스를 돌리고, 사이트(Task 10)는 사용자가 말할 때 올린다.
 > **1.5.4(2026-11-16): 1.5.2 뒤에도 사용자 앱에서 채팅 보내기가 막혔다** — 이 PC 전용 진단판 1.5.3(공개 안 함)의 `spawn.log`에서 입력칸 표시가 `❯`가 아니라 `>`+NBSP로 그려진 게 보였다(격리 사본 시험에선 ❯였음). `promptRow`의 PROMPT가 `>`+NBSP도 받고, 메뉴 선택 표시도 `[❯>]`로. 진단 기록은 남김: 페이지가 화면 때문에 거절하면 `chat:diag`로 가린 모양(글자·숫자→a, 공백 ·, NBSP ⍽, 모르는 기호는 코드포인트)이 30초에 한 번 `[chat] chat send refused by the page (…)`로, main 거절은 `chat send refused (reason)`으로 남는다. 다음에 막히면 스크린샷 대신 이 로그부터 볼 것. **1.5.2(2026-11-16): 채팅 보내기가 사용자 세션에서 늘 거절되던 버그 수정** — 이름 붙은 세션은 입력란 윗줄 오른쪽에 이름("───…─── Spawn ─")이 그려져 `promptRow`가 입력란을 못 찾았고(`screen` 거절, 기본 안내), 전체 화면 TUI에서 하위 에이전트가 돌면 바닥 줄 아래 에이전트 목록이 생겨 바닥이 4줄을 넘었다. 둘 다 `src/chat/promptRow.ts`에서 받음(테스트 `tests/chat-real-owner-screens.test.ts`, 실제 모양 `real-named-session.txt`·`real-agents-panel.txt`; 격리 사본에서 사용자 세션 사본으로 재현·확인). 이전 시험은 이름 없는 세션이라 못 잡음. **같은 릴리스의 사용자 요청 UI**: 왼쪽 패널 지시 입력란 제거(알림은 패널 아래 따로), 글자 크기 메뉴 이름만, 실행 옆 두 아이콘 30px, 도감↔파티 12px. 채팅 꺼짐 = 1.4.0 픽셀 비교(chat-off 흐름)는 기준을 "이 버전을 chatView false로 빌드한 것"으로 바꿈. **1.5.1(2026-11-16): 1.5.0의 맥 빌드가 CI 테스트 하나(package.json 전체 해시 고정 — 버전만 올려도 깨짐)에 걸려 맥이 안 나갔다. 테스트를 "버전 빼고 의존성만" 비교로 고치고 1.5.1로 윈도우+맥을 다시 냄(앱 내용은 1.5.0과 같음).** 교훈: 버전을 올린 뒤에 전체 테스트를 다시 돌릴 것. **1.5.0 릴리스(2026-11-16, 사용자 "다 릴리스하자, 업데이트하고 다 볼게"): 채팅 보기 미리보기(2~6단계)를 main에 합침(`chat-view-preview` 커밋 하나, fast-forward).** 기능 깃발 `chatView`는 켜짐, 설정 › 세션 "채팅으로 보기 (미리보기)"는 기본 꺼짐 — 끄면 1.4.0과 같음. 사용자가 직접 써 볼 점검 목록과 남은 결정(터미널 3줄 예외, 다시 만든 기록 자동 복구, 1.4.0 서버 로그)은 7-47~7-51. `chat-view` 브랜치(전체 기록)는 개인정보가 든 옛 커밋 때문에 계속 푸시하지 않는다. **1.4.0 릴리스(2026-11-14 밤, 사용자 "다 알아서 해, 푸시도 하고 보류했던 것도 전부"): 차분하게 2(1단계) + macOS 첫 버전(`--publish --with-mac`).** 실제 맥에서 사람이 해 보는 15분 확인은 아직 못 함(CI 스모크만 통과). **2026-11-14 저녁 — main의 병합 커밋 `0107950`부터는 푸시·릴리스 안 함, 로컬 테스트 빌드만**: 맥 포팅(`mac-port`)과 차분하게 2 1단계(`chat-view`)를 모두 main에 합쳤다(뒤 문장의 "진행 중"·"보류"보다 이 줄이 최신). `spike/`는 main에서 뺐고 `chat-view` 브랜치에만 있다. 사용자가 테스트 빌드로 확인할 것과 대신 정한 결정은 7-46. 릴리스는 "푸시해" 때만. 이하 이전 요약: 최신 릴리스 1.3.52(2026-11-14): 업무 모드, 주간 한도 날짜 표시(7-45). 그 전 1.3.51(2026-11-13): 다른 AI 도구(Codex) 숨김(7-44). 차분한 스타일은 "차분하게 2"로 확정, 채팅 보기 설계 문서는 사용자 확인 대기(7-45). **진행 중인 큰 작업 둘**: ① 채팅 보기(브랜치 `chat-view`, 폴더 `Documents\spawn-chat-view`, 7-44; 1단계 "차분하게 2를 앱에" 끝, 로컬 테스트 빌드 확인 대기, 7-46) ② 맥 포팅(브랜치 `mac-port`, 사용자가 push 보류시킴, 7-42·7-43). 공통 업데이트는 main에서 하고 두 브랜치에 합친다. 그 전 1.3.50(2026-11-13): 글꼴을 앱에 넣음(7-43). **맥 버전이 나가는 릴리스는 1.4.0으로**(사용자 결정). 그 전 1.3.49(2026-11-13): 알림 "+1" 수정, 위젯 버튼을 글자 크기 왼쪽으로(7-42). **맥 버전 작업 중**: 브랜치 `mac-port`(작업 폴더 `Documents\spawn-mac-port`), 설계·계획 `docs/superpowers/specs|plans/2026-11-13-macos-port*`, 진행 기록 `.superpowers/sdd/2026-11-13-macos-port/progress.md`(7-42). 그 전 1.3.48(2026-11-12): 포켓몬 칸 #16181d·박스 칸 테두리 옅게, 보기·글자 크기 탭 간격 2px(7-41). 그 전 1.3.47: 포켓몬 칸 #1d1e22, 보기 전환 버튼 배경 되돌림(7-40). 그 전 1.3.46: 의견이 Supabase 쓰기 전용 표로(7-39). 그 전 1.3.45: Windows식 창 버튼(최소화·최대화/복원·닫기), 위젯 버튼 하나(7-38). 그 전 1.3.44: 포켓몬 그림 배경 한 가지 연회색, 후광 없앰(7-37). 그 전 1.3.43: 도망 확률 20/30/50/60/70%(7-36). 그 전 1.3.42: 나란히 크기 조절할 때 터미널 빈 화면 해결, 업데이트 재시작 1단계, 일하는 세션 빛 GPU로, 도감 빈 칸 숨김, 종료 flush 재시도(7-35). 그 전 1.3.41: 바로가기·작업 표시줄 아이콘이 업데이트를 따라감, 여러 크기 .ico로 선명하게, 패널 로고 캐시 문제, 고르지 않은 일하는 세션 회색 빛(7-34). 그 전 1.3.40: PC를 꺼도 다시 열 세션 목록 유지(7-32), 여행의 시작 친구 몬스터볼 기록·1~9세대 스타팅(7-33). 그 전 1.3.39(2026-11-11): 새 몬스터볼 아이콘(비스듬한 Dream 볼), 헤더 워드마크 spawn 복귀, 기록 화면 빈 문제 수정, 박스 칸 Lv·볼 뺌, 확률 표 비공개, 접힌 레일 구분선·프로필(7-31). 그 전 1.3.38: 모든 아이콘 Dream 몬스터볼(커밋함, NOTICE), 새 세션 버튼 +, 왼쪽 패널 이름 없앰·구분선 끝까지, 닫기 문구, 세 색 → 노랑 한 색(7-30). 그 전 1.3.37: 몬스터볼 아이콘 통일(Wikimedia CC BY-SA 4.0), 창 크기 조절 깜빡임 수정, 탭 옅은 색·일하는 세션 도는 테두리, 패널 접기 버튼 위치·호버(7-29). 그 전 1.3.36: **이름이 Claudex → spawn**(저장소 `DueStar/spawn`, 데이터 `~/.spawn`·`%APPDATA%\spawn`, 환경 변수 `SPAWN_*`, 7-28) + 조우 줄이기(7-27). 그 전 1.3.35: 앱 안 피드백, 도감 등급 다중 선택(7-26). 그 전 1.3.34: 탭 닫기·셸 버튼·랭킹 1~3위, 왼쪽 패널 접기, 업데이트 안내·시간 기록(7-25). 다음은 업데이트 재시작 수치 읽기(8번).

diff --git a/CHANGELOG.md b/CHANGELOG.md
@@ -2,6 +2,10 @@
 
 ## spawn
 
+### 1.10.5
+- 채팅 보기가 기본이 됐어요. 이전에 꺼져 있던 경우도 한 번 켜지고, 그다음부터는 설정 › 세션 › 채팅으로 보기에서 고른 대로 따라요.
+- 채팅에서 만난 야생 포켓몬 줄을 옅은 박스로 묶어서 대화와 구분되게 했어요.
+
 ### 1.10.4
 - 도감의 오류를 정리해요. 예전에 처음 시작할 때 고른 스타팅이 지금 게임에 없는데도 도감에 "잡음"으로 남아 있던 기록을 지우고, 볼이 비어 있던 기록에 볼을 채워요. 앱을 켤 때와 동기화할 때마다 확인해요.
 - 패치노트에서 예전 버전이 잘려 보이지 않던 문제를 고쳤어요. 이제 스크롤되고, 마이너 버전(1.10, 1.9 …)별로 묶여요.
@@ -498,6 +502,10 @@
 
 ## spawn (English)
 
+### 1.10.5
+- The chat view is now the default. If it was off, it is turned on once; after that, Settings › Sessions › View sessions as chat decides.
+- A wild Pokémon met in the chat sits in a quiet box, apart from the conversation.
+
 ### 1.10.4
 - The Pokédex mends its own errors: a starter chosen at an earlier start of the game, not in this game, no longer counts as caught, and a record without a ball gets one. Checked at every start and sync.
 - The patch notes cut off their older releases. They scroll now and are grouped by minor version (1.10, 1.9 …).
@@ -853,6 +861,10 @@
 - Data: see your cloud sync status and export your Pokédex as a backup file.
 
 ## spawn (日本語)
+
+### 1.10.5
+- チャット表示が既定になりました。オフだった場合も一度オンになり、その後は 設定 › セッション › セッションをチャットで表示 の選択に従います。
+- チャットで出会った野生のポケモンの行を薄い枠で囲み、会話と見分けやすくしました。
 
 ### 1.10.4
 - 図鑑の誤りを直します。以前はじめに選んだスターターが今のゲームにいないのに「捕まえた」と残っていた記録を消し、ボールが空の記録にボールを入れます。起動と同期のたびに確認します。

diff --git a/README.ja.md b/README.ja.md
@@ -27,7 +27,7 @@ Claude Code のセッションをポケモンと一緒に使う Windows · macOS
 - 働いているポケモンは、いつでも捕まえた別のポケモンと入れ替えられます。
 
 ### チャットで表示と並べて表示
-- 設定 › セッション › 「セッションをチャットで表示(プレビュー)」をオンにすると、Claude Code のセッションを会話として表示できます。チャット · ターミナルの切り替えはすべてのセッションに一度に適用されます。
+- Claude Code のセッションを会話として表示します(既定)。ターミナルで見たいときは、上の切り替えか、設定 › セッション › 「セッションをチャットで表示」をオフにします。チャット · ターミナルの切り替えはすべてのセッションに一度に適用されます。
 - セッションを2〜3個並べて見られます。左のリストからセッションを右側にドラッグするか Ctrl+クリックすると横に枠ができ、枠ごとに会話と入力欄があります。枠の × は枠だけを閉じ、セッションは続きます。
 - チャットの入力欄で / を入力するとコマンドの一覧が出ます。標準のコマンドと自分のコマンド・スキルを名前で探して選べます。
 - ターミナルに出る選択画面(権限の確認、質問、プランの承認など)がチャットにカードで表示され、押して選べます。

diff --git a/README.en.md b/README.en.md
@@ -27,7 +27,7 @@ A Windows and macOS desktop app for running Claude Code sessions with Pokémon. 
 - You can swap the working Pokémon for any other one you caught, at any time.
 
 ### Chat view and side-by-side sessions
-- Turn on Settings › Sessions › "View sessions as chat (preview)" to see a Claude Code session as a conversation. The chat · terminal switch applies to every session at once.
+- See a Claude Code session as a conversation (the default). For the terminal, use the chat · terminal switch at the top, or turn off Settings › Sessions › "View sessions as chat". The chat · terminal switch applies to every session at once.
 - See two or three sessions side by side: drag a session from the left list onto the right side, or Ctrl+click it, and it opens in a pane of its own with its own conversation and composer. A pane's × closes only the pane; the session keeps running.
 - Type / in the chat box for a list of commands: the built-in ones and your own commands and skills, found by name.
 - Dialogs Claude Code draws in the terminal (permission requests, questions, plan approval, …) show in the chat as cards: click to choose.
